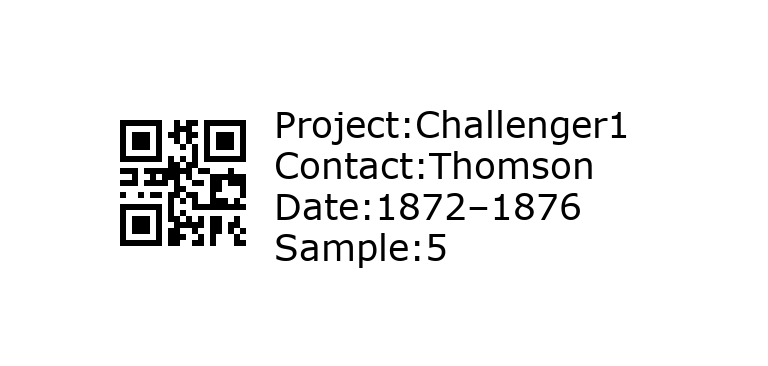
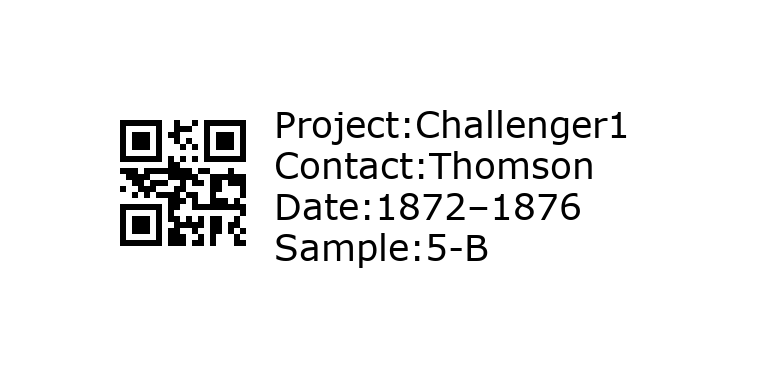
simplified handling of replicates (no separate line on label, just added to sample name)

diff --git a/generate_labels.py b/generate_labels.py
@@ -26,9 +26,9 @@ def make_label(project, contact, date, sample, replicate, num_replicates, separa
 
     # generate text code and qr code
     if (num_replicates > 1):
-        code = '%s%s%s%s%01d' % (project, separator, sample, separator, replicate)
-        string = '\nProject:%s\nContact:%s\nDate:%s\nSample:%s\nReplicate:%01d' % (
-            project, contact, date, sample, replicate)
+        code = '%s%s%s%s%s' % (project, separator, sample, separator, chr(ord('@')+replicate))
+        string = '\nProject:%s\nContact:%s\nDate:%s\nSample:%s%s%s' % (
+            project, contact, date, sample, separator, chr(ord('@')+replicate))
     else:
         code = '%s%s%s' % (project, separator, sample)
         string = '\nProject:%s\nContact:%s\nDate:%s\nSample:%s' % (
@@ -52,7 +52,7 @@ def make_label(project, contact, date, sample, replicate, num_replicates, separa
     font = ImageFont.truetype('Verdana.ttf', 36)
     draw.text(((img.height * 0.75), int(img.height * 0.165)), string, (0,0,0), font=font)
     if (num_replicates > 1):
-        label.save('labels_%s/label_%s_%01d.png' % (project, sample, replicate))
+        label.save('labels_%s/label_%s_%s.png' % (project, sample, chr(ord('@')+replicate)))
     else:
         label.save('labels_%s/label_%s.png' % (project, sample))
 
@@ -100,7 +100,7 @@ def main(project, contact, date, sample_list, num_samples, num_replicates, separ
             this_sheet = math.ceil(tex_counter / 85)
             make_label(project, contact, date, sample, replicate, num_replicates, separator, label_width, label_height)
             if (num_replicates > 1):
-                tex_table[this_sheet] += '\\includegraphics[width=\\w]{label_%s_%01d} & ' % (sample, replicate)
+                tex_table[this_sheet] += '\\includegraphics[width=\\w]{label_%s_%s} & ' % (sample, chr(ord('@')+replicate))
             else:
                 tex_table[this_sheet] += '\\includegraphics[width=\\w]{label_%s} & ' % sample
             if ((tex_counter % template_cols) == 0):
